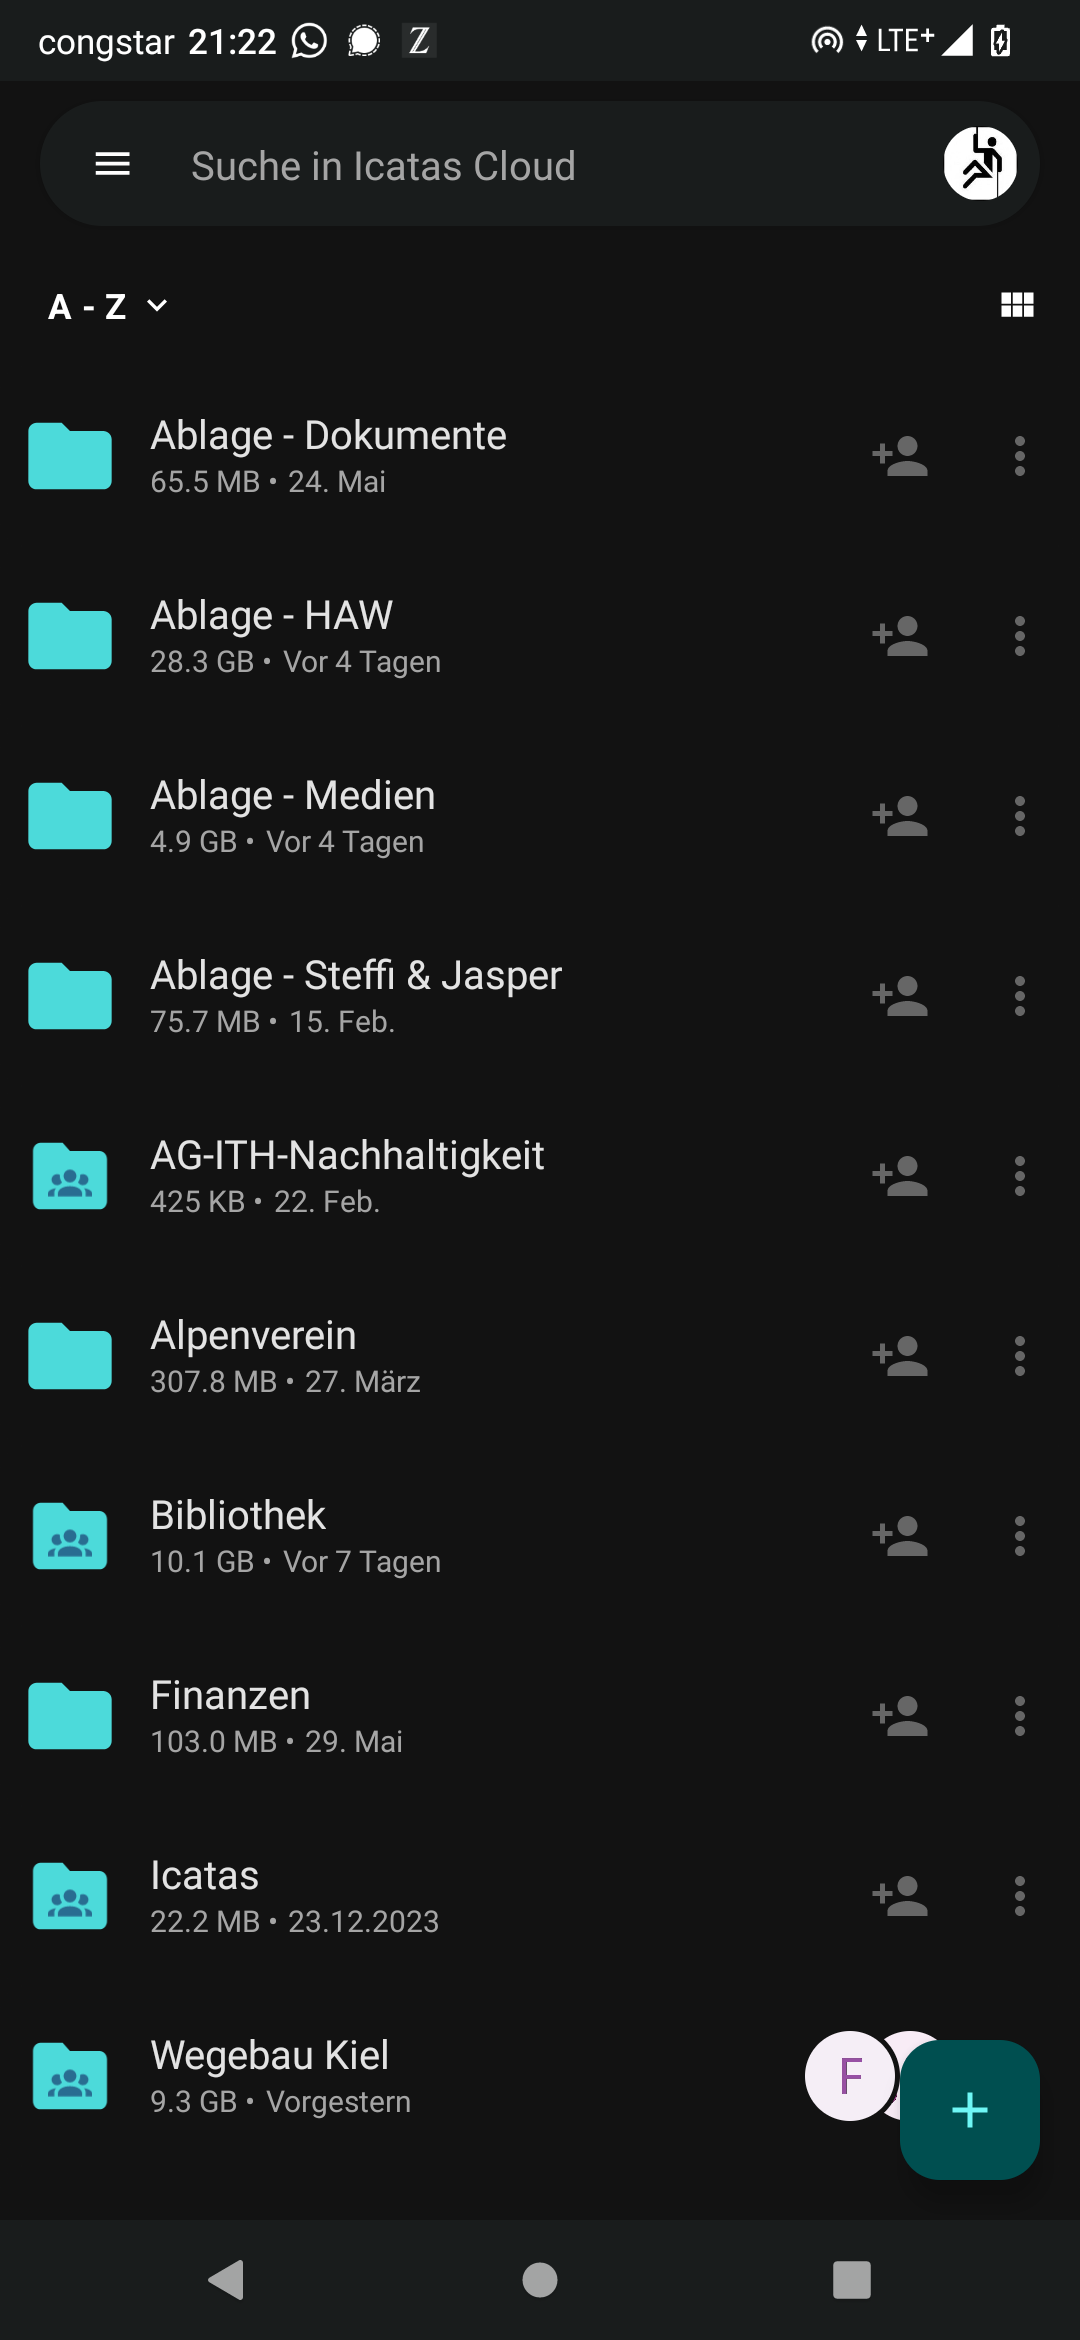
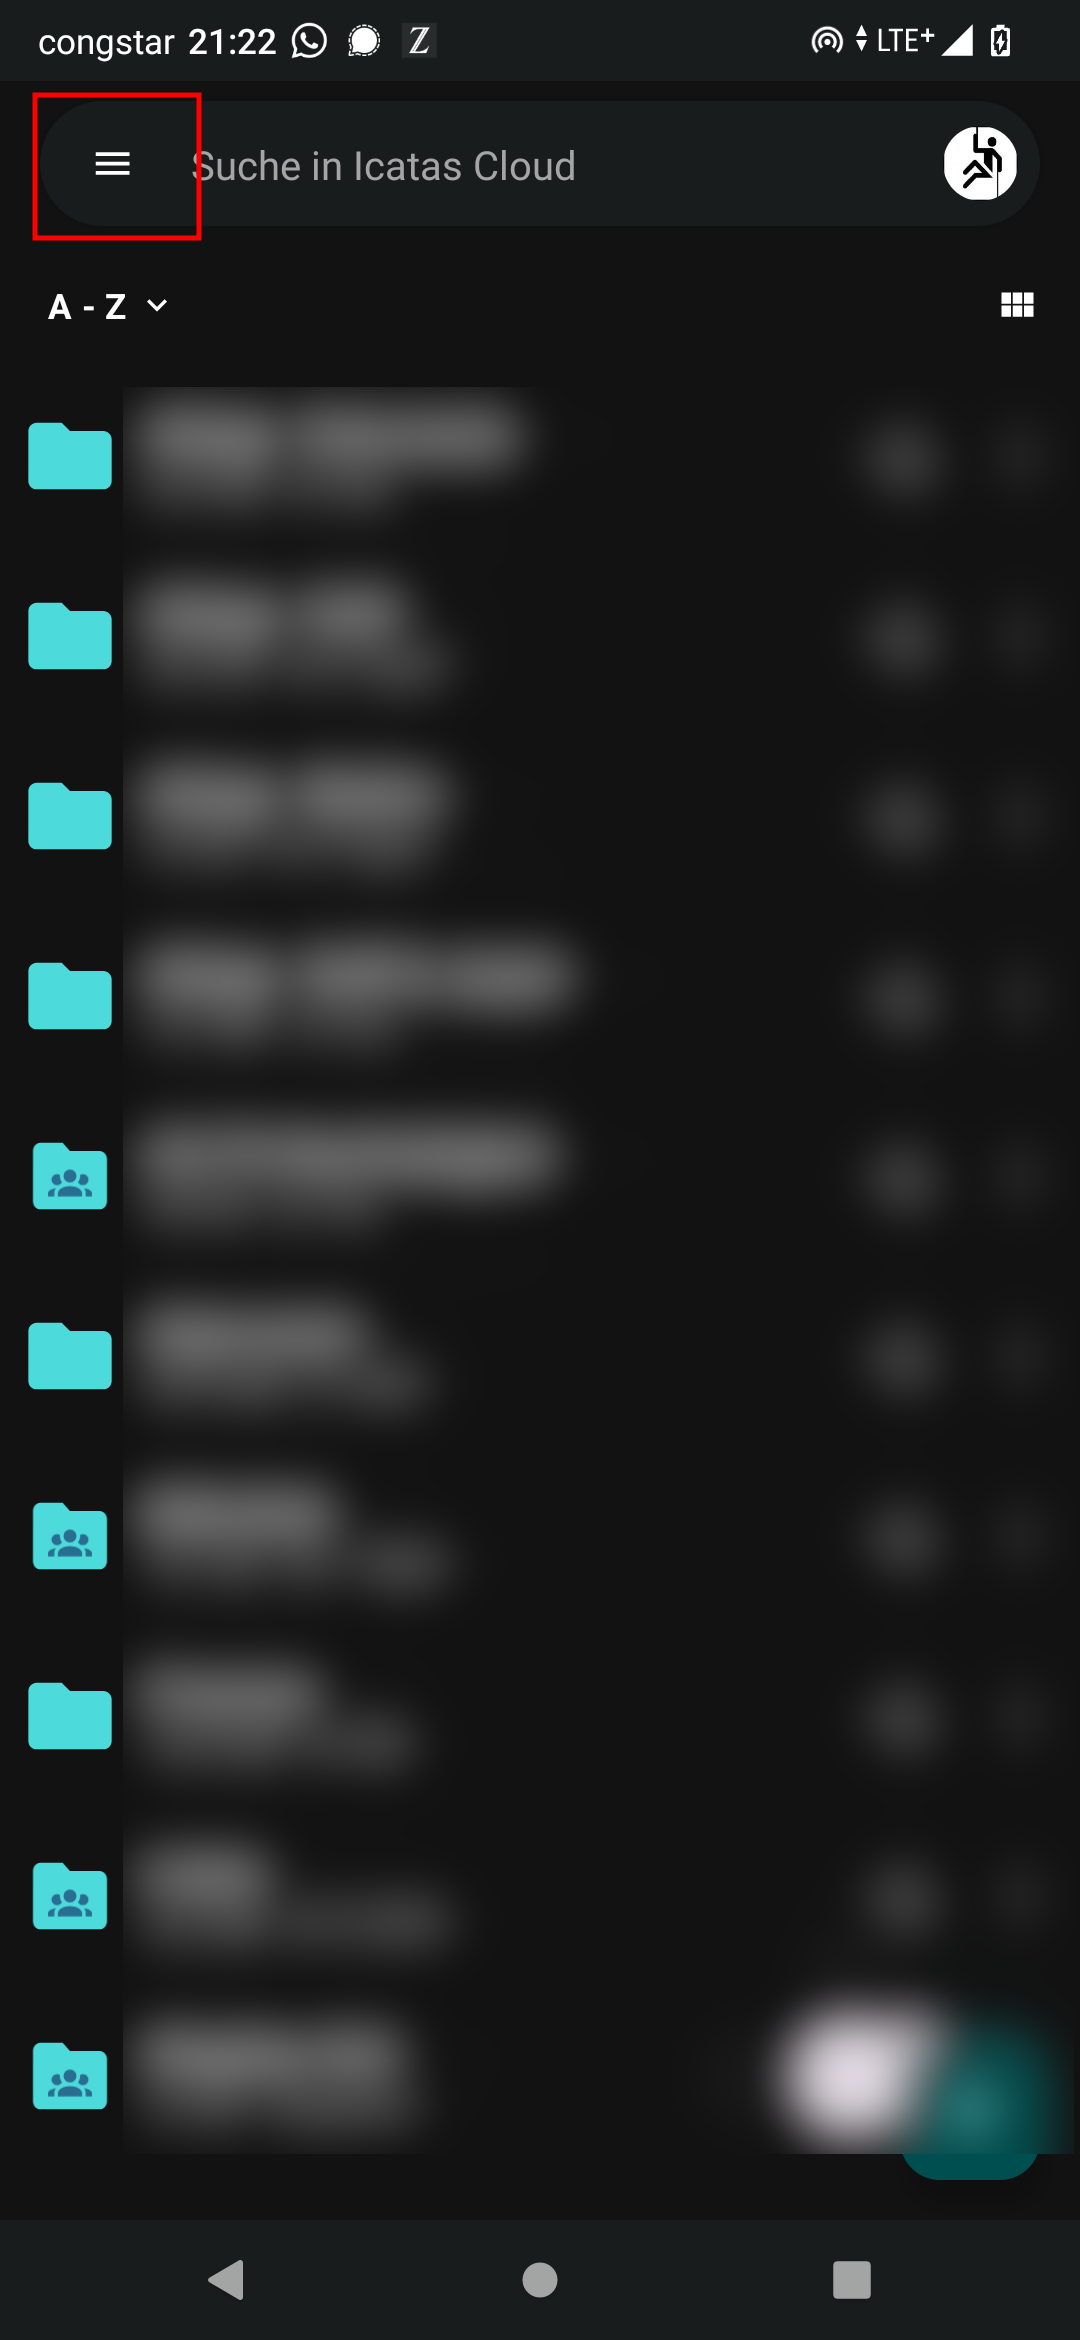
completed guide for app installation and automatic photo upload; added red rectangles to some screenshots

diff --git a/android/nextcloud-android.md b/android/nextcloud-android.md
@@ -1,69 +1,103 @@
 # Einbindung Nextclouddienste auf Android
 
-	- Auf NC Datein über Android zugreifen
-	- NC Kontakte mit Android syncen
-	- NC Kalender mit Android syncen
-	-  Automatischen Fotoupload einrichten
+## Inhalt: 
+
+Diser Guide beschreibt wie sich die folgenden Dienste der Nextcloud unter Android nutzen lassen:
+
+```
+1. Zugriff NC Dateien in der Nextcloud
+2. Einrichten des automatischen Fotouploads
+3. NC Kontakte mit dem Android syncronsieren
+4. NC Kalender mit Android syncronsieren
+```
 
 
+## 1. Dateien: Installation und Einrichtung der Android Nextcloud Client App
 
-## Dateien / Files
+Zugriff auf die Dateien ("Files") aus der Nextcloud ist über die den Nextcloud Android Client möglich.
 
- - Zugriff auf die Dateien ("Files") aus der Nextcloud über Nextcloud Android
-Client
 
-### Einrichten der Android Nextcloud App
+Voraussetzungen:
 
-- Voraussetzungen:
 	- Android Version ..
 	- Stabile Internet Verbindung (am besten WLAN)
 
 1. Installieren der Nextcloud Android App
 
  - Lade die Nextcloud App über den Google Playstore herunter und installiere sie
-indem du auf den Installieren Button klickst.
+indem du auf den Installieren Button klickst (Abb. 1.1 links)
 
-		(https://play.google.com/store/apps/details?id=com.nextcloud.client)
+		https://play.google.com/store/apps/details?id=com.nextcloud.client
 
 2. Anmelden
 
  - Öffne die App und klicke auf "Anmelden". Es erscheint ein Eingabefeld. Gib hier
 die folgende Adresse ein um dich bei der Icatas Cloud anzumelden:
-
-		https://cloud.icatas.eu
+	
+	**https://cloud.icatas.eu**
 
  - Klicke auf den Pfeil am rechten Ende des Eingabefeldes um zum nächsten Schritt
  zu gelangen.
+			
+	<br \>
+	<center>
+	<img src="screenshots/nc_android_01.png" alt="Nextcloud im PlayStore" height="400">
+	<img src="screenshots/nc_android_02.png" alt="Wilkommensseite der App" height="400">
+	<img src="screenshots/nc_android_03.png" alt="Eingabemaske Serveradresse" height="400">
+	<p> **Abbildung 1.1:** links: App im Google Playstore, mitte/rechts: Ersten Schritte nach erstem Öffnen der App.
+	</center>
+	<br />
 
-3. Es erscheint eine neue Seite. Hier auf "Anmelden" klicken.
+3. Es erscheint eine neue Seite. Hier auf "Anmelden" klicken (vgl. Abb. 1.2 links).
 
-4. In der erscheinenden Anmeldemaske musst du deine Anmeldedaten eingeben, die
+4. In der erscheinenden Anmeldemaske musst du deine Anmeldedaten eingeben (Abb. 1.2, mitte), die
 du auch bei der Anmeldung über den Browser am Computer verwendest. Beachte, dass
 dein Benutzername hier i.d.R. keine E-Mail Adresse ist. Falls du deinen Nutzernamen
 und / oder dein Passwort vergessen hast melde dich  .....
 
-5. Bei erfolgreichem Log-In sollte ein weiteres Fenster erscheinen. Klicke hier
+	<br \>
+	<center>
+	<img src="screenshots/nc_android_04.png" alt="Sicherheitswarnung" height="400">
+	<img src="screenshots/nc_android_05.png" alt="Eingabemaske persönliche Anmeldedaten" height="400">
+	<img src="screenshots/nc_android_06.png" alt="Grand Access Button" height="400">
+	<p> **Abbildung 1.2:** links: Sicherheitswarnung nach Eingabe der Serveradresse, mitte: Eingabemaske
+		persönliche Anmeldedaten, rechts: Bestätigung des Zugriffs deines Gerätes auf deine Daten
+	</center>
+	<br />
+
+5. Bei erfolgreichem Log-In sollte ein weiteres Fenster erscheinen (Abb. 1.2 rechts). Klicke hier
 auf "Grand  Access" um deinem Android Client den dauerhaften Zugriff auf deine Daten
 zu gestatten.
 
-6. Voller Zugriff vs. Schreibgeschützt für Medien
+6. Nach erfolgreicher Anmeldung erscheint ggf. ein Pop-Up, mit der Auswahlmöglichkeit der App entweder
+den "vollern Zugriff"  oder "Medien Schreibgeschützt" zu wählen.
 
 7. Beim Öffnen der App öffnet sich nun der Filebrowser und die Dateien aus deiner
 Nextcloudablage. 
 
-### Automatischen Fotoupload einrichten
+## 2. Automatischen Fotoupload einrichten
 
 Wenn du möchtest, dass deine Fotos, die du mit dem Smartphone machst, automatisch
-in der Nextcloud gespeichert werden, kannst du die Funktion "Automatisches Hochladen"
-verwenden. Dazu gehe wie foglt vor:
+in der Nextcloud gespeichert werden, kannst du die Funktion "Automatisches Hochladen" der Nextcloud
+Client App verwenden. Dazu gehe wie foglt vor:
 
 1. Öffne den Nextcloud Client (die App) und tippe auf das Hamburger Menü am 
-oberen Bildschirmrand
+oberen Bildschirmrand (vgl. Abb 2.1 links).
 
-2. Tippe auf "Einstellungen" (ggf. nach oben Wischen)
+2. Tippe auf "Einstellungen" (ggf. nach oben Wischen, vgl. Abb. 2.1, mitte)
+
+	<br \>
+	<center>
+	<img src="screenshots/nc_android_08.png" alt="Position Hamburg Menü" height="400">
+	<img src="screenshots/nc_android_09.png" alt="Position Button "Einstellungen"" height="400">
+	<img src="screenshots/nc_android_10.png" alt="Position Button 'Automatisches Hochladen'" height="400">
+	<p> **Abbildung 2.1:** links: Position Hamburg Menü, mitte: Die Einstellungen sind unten zu finden,
+		rechts: "Automatisches Hochladen" ist unter "Mehr" zu finden.
+	</center>
+	<br />
 
 3. Tippe auf "Automatisches Hochladen. Der Punkt ist unter der kleinen blauen 
-Überschrift "Mehr" zu finden.
+Überschrift "Mehr" zu finden (Abb. 2.1, rechts)
 
 4. Hier kannst du nun den Order auswählen, der von deiner Kamera verwendet wird.
 In diesem Fall ist es der Ordner "Camera" Klicke zum Einrichten auf die drei Punkte
@@ -127,3 +161,4 @@ Funtkion des Autouploads zu gewährleisten.
 
 
 
+j
